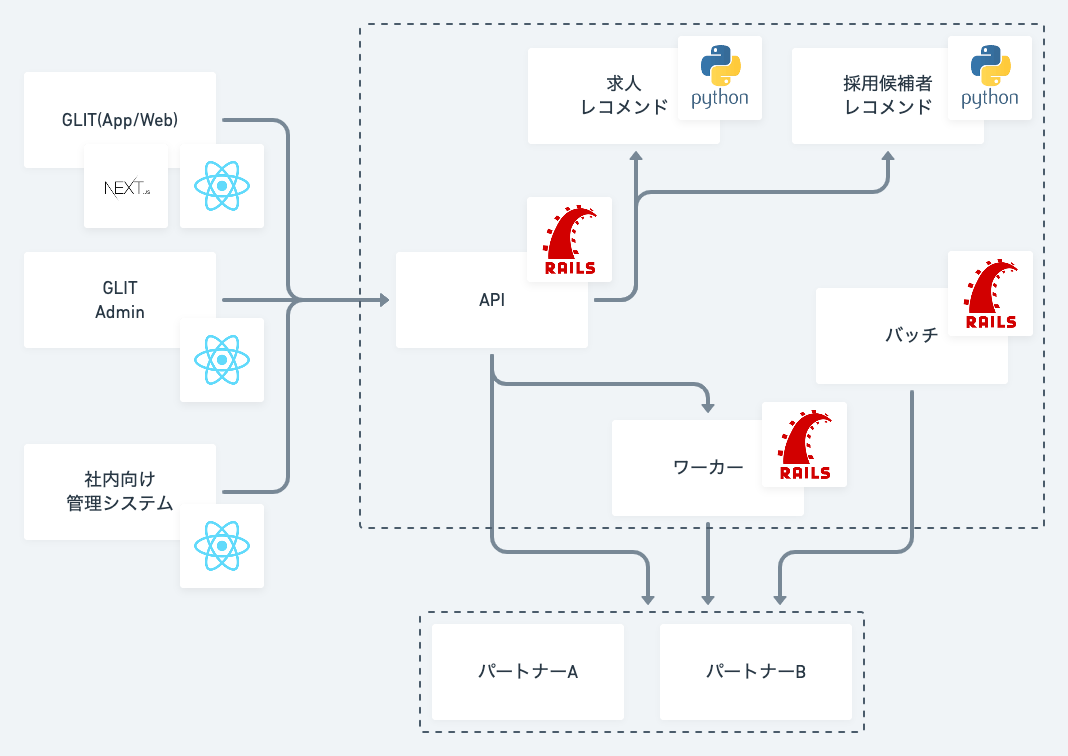
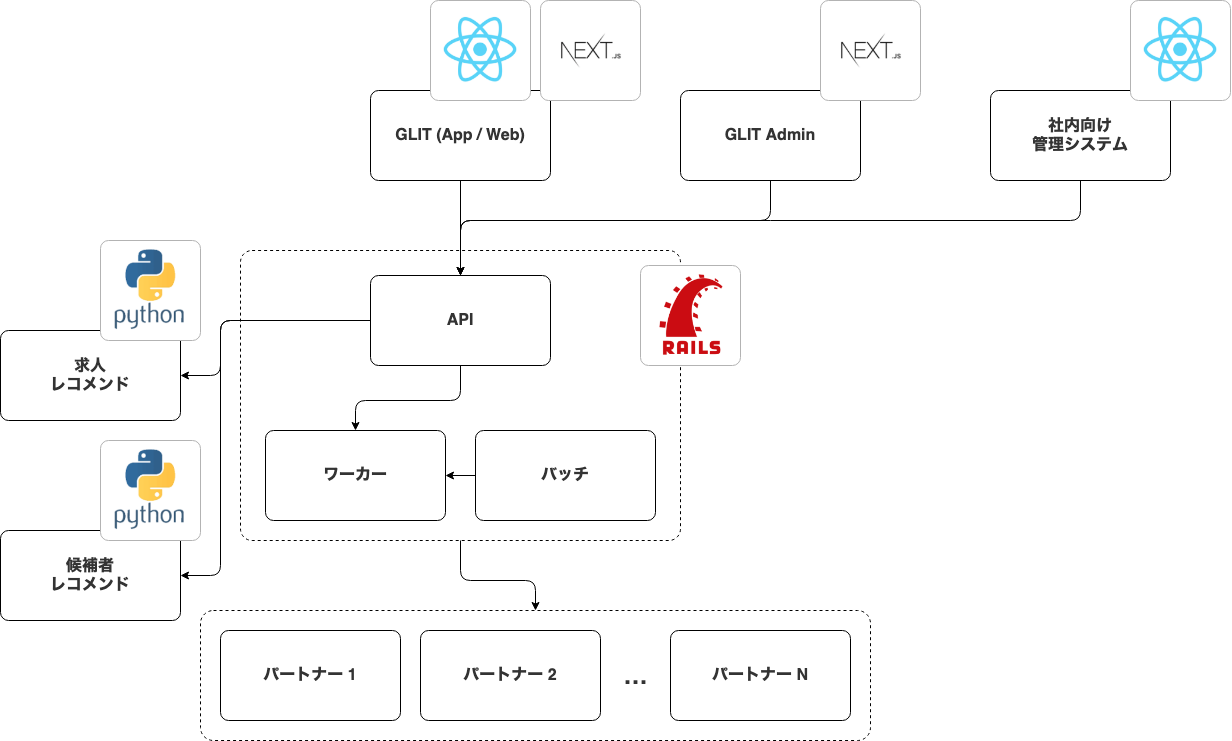
modify

diff --git a/hiring-deck.md b/hiring-deck.md
@@ -1,8 +1,6 @@
 ---
 marp: true
 theme: gaia
-header: 株式会社Carat 会社紹介資料 エンジニア向け
-footer: "更新日 2021年6月18日"
 paginate: true
 backgroundColor: white
 color: '#333333'
@@ -10,10 +8,10 @@ color: '#333333'
 
 <style>
 * {
-  font-family: "Hiragino Kaku Gothic ProN";
+  /* font-family: "Hiragino Kaku Gothic ProN"; */
   /* font-family: "Hiragino Maru Gothic ProN"; */
-  /* font-family: YuGothic; */
-  letter-spacing: -0.02em;
+  font-family: YuGothic;
+  letter-spacing: -0.01em;
 }
 </style>
 
@@ -27,9 +25,17 @@ p {
 }
 </style>
 
-## 株式会社Carat 会社紹介資料
+## 株式会社Carat会社紹介資料
 
-エンジニア向け
+for Engineers
+
+<span class="note">2021.06 updated</span>
+
+<style scoped>
+span.note {
+  color: gray;
+}
+</style>
 
 <!--
 Also supports multiline.
@@ -38,45 +44,24 @@ We bet these comments would help your presentation...
 
 ---
 
-### 目次
+### Company
 
-1. 会社概要
-1. CTO紹介
-1. 提供しているサービス
-1. 技術スタックと開発ツール
-1. アーキテクチャ
-1. チーム
-1. 開発フロー
-1. 課題
-1. 価値観
-1. セールスポイント
-
-<style scoped>
-li {
-  font-size: 30px;
-}
-</style>
+- 2016年12月にCEO松本・CTO斎藤によって創業
+- 正社員は4名、業務委託の方を入れると12名
+  - うち、エンジニア・デザイナーはCTO含めて5名
+- 本社は東京都渋谷区代々木にありますが、全員リモート勤務
+- 詳しくはこちら↓<br>https://www.notion.so/Carat-3fdf975a11c24bc98e5a0274c0c05b31
 
 ---
 
-### 会社概要
+### About CTO
 
-* 2016年12月にCEO松本・CTO斎藤によって創業
-* 正社員は4名、業務委託の方を入れると12名
-  * うち、エンジニア・デザイナーはCTO含めて5名
-* 本社は東京都渋谷区代々木にありますが、全員リモート勤務
-* 詳しくはこちら → https://www.notion.so/Carat-3fdf975a11c24bc98e5a0274c0c05b31
-
----
-
-### CTO紹介
-
-* 斎藤陽介( @saitoxu )
-* 1989年生まれ東京在住
-* 2014年京都大学大学院修了
-* 新卒で株式会社SHIFTに入社し、<br>業務用Webアプリケーションの開発に従事
-* 2016年12月にCEO松本と株式会社Caratを共同創業
-* 2021年4月に京都大学大学院情報学研究科博士課程に入学
+- 斎藤陽介( @saitoxu )
+- 1989年生まれ東京在住
+- 2014年京都大学大学院修了
+- 新卒で株式会社SHIFTに入社し、<br>業務用Webアプリケーションの開発に従事
+- 2016年12月にCEO松本と株式会社Caratを共同創業
+- 2021年4月に京都大学大学院情報学研究科博士課程に入学
 
 <img src="images/profile.jpg" class="profile" />
 
@@ -92,12 +77,55 @@ img.profile {
 
 ---
 
-### 提供しているサービス
+### Services
 
-* GLIT(グリット) https://glit.io
-* 20以上の求人サイトの求人情報を<br>掲載した転職サービス
-* 求人情報のアグリゲーション<br>→ レコメンデーションが特徴
-* iOS/Android/Webの<br>3プラットフォームで展開
+<img src="images/glit.webp" class="glit" />
+<img src="images/glit_admin.webp" class="glit_admin" />
+
+<span class="glit_caption">レコメンド型転職サービスGLIT(グリット)</span>
+<span class="glit_admin_caption">AIを活用した<br>企業向け採用ソリューションGLIT Admin</span>
+
+<style scoped>
+img.glit {
+  width: 500px;
+  position: absolute;
+  top: 200px;
+  left: 100px;
+}
+img.glit_admin {
+  width: 500px;
+  position: absolute;
+  top: 200px;
+  right: 100px;
+}
+span.glit_caption {
+  position: fixed;
+  width: 500px;
+  top: 480px;
+  font-weight: bold;
+  left: 100px;
+}
+span.glit_admin_caption {
+  position: fixed;
+  width: 500px;
+  top: 480px;
+  font-weight: bold;
+  right: 100px;
+}
+</style>
+
+---
+
+### GLIT
+
+<div style="width: 540px">
+
+- https://glit.io
+- 20以上の求人サイトの求人情報を掲載した転職サービス
+- 求人情報のアグリゲーションとレコメンデーションが特徴
+- iOS/Android/Webの3プラットフォームで展開
+
+</div>
 
 <img src="images/glit1.jpg" class="glit1" />
 <img src="images/glit2.jpg" class="glit2" />
@@ -119,93 +147,114 @@ img.glit2 {
 
 ---
 
-### 提供しているサービス
+### GLIT Admin
 
-* MAUは堅調に伸長中
+<div style="width: 540px">
 
-<img src="images/mau.png" class="mau" />
+- https://lp.glit.io/enterprise
+- 機械学習を活用した採用候補者のレコメンデーションが特徴
+- 2021年5月に大幅リニューアル
 
-<style scoped>
-img.mau {
-  position: absolute;
-  width: 1060px;
-  bottom: 50px;
-  right: 110px;
-}
-</style>
+</div>
 
----
-
-### 提供しているサービス
-
-* GLIT Admin https://glit.io/enterprise
-* 企業/エージェント向けの採用サービス
-* 採用候補者のレコメンデーション<br>が特徴
-
-<img src="images/admin.png" class="admin" />
+<img src="images/admin.webp" class="admin" />
 
 <style scoped>
 img.admin {
+  width: 500px;
   position: absolute;
-  bottom: 80px;
-  right: 60px;
+  bottom: 100px;
+  right: 80px;
 }
 </style>
 
 ---
 
-### 技術スタックと開発ツール
+### Tech Stack & Tools
 
-* GLIT
-  * iOS/Android: React Native(TypeScript約90%), Firebase
-  * Web: Next.js(TypeScript 100%)
-* GLIT Admin
-  * Web: Next.js(TypeScript 100%)
-* API: Ruby on Rails
-* インフラ: AWS, GCP(BigQuery)
-
----
-
-### 技術スタックと開発ツール
-
-* ソースコード管理: GitHub
-* チケット管理: JIRA
-* ドキュメンテーション・仕様管理: Confluence
-* デザイン: Figma
-* コミュニケーション: Slack, Zoom
-* CI/CD: Bitrise, CircleCI
-* モニタリング: Datadog, Sentry
+- GLIT
+  - iOS/Android: React Native(TypeScript 90%), Firebase
+  - Web: Next.js(TypeScript 100%)
+- GLIT Admin
+  - Web: Next.js(TypeScript 100%)
+- API: Ruby on Rails
+- レコメンデーション: Python
+- インフラ: AWS, GCP(BigQuery)
 
 ---
 
-### アーキテクチャ
+### Tech Stack & Tools
+
+- ソースコード管理: GitHub
+- チケット管理: JIRA
+- ドキュメンテーション・仕様管理: Confluence
+- デザイン: Figma
+- コミュニケーション: Slack, Zoom
+- CI/CD: Bitrise, CircleCI
+- モニタリング: Datadog, Sentry
+
+---
+
+### Architecture
+
+<div style="width: 470px">
+
+- 現在は2つのサービスで1つのAPIを共用しています
+- レコメンド機能はPrivate APIとして提供しています
+
+</div>
 
 <img src="images/architecture.png" class="arch" />
 
 <style scoped>
 img.arch {
   position: absolute;
-  width: 780px;
-  bottom: 20px;
-  left: 240px
+  width: 700px;
+  top: 180px;
+  right: 40px
 }
 </style>
 
 ---
 
-### チーム
+### Next Architecture
 
-* 主にプロダクト開発に関わっているのはCEO, CTO, PdM(COO), エンジニア2名(業務委託)
-* エンジニアの方は1人はデザイナー兼フロントエンドエンジニア、もう1人はフロントエンド専任
-* 現在はフロントエンドは業務委託の方々に、CTOがバックエンドなどその他全般を担当しています
+<div style="width: 370px">
+
+- サービス毎に独立して開発を進められるよう、現在APIのリファクタリングを進めています
+
+</div>
+
+<img src="images/next_architecture.png" class="arch" />
+
+<style scoped>
+img.arch {
+  position: absolute;
+  width: 800px;
+  top: 180px;
+  right: 40px
+}
+</style>
 
 ---
 
-### 開発フロー
+### Team
 
-* 週次のプロダクトミーティングでアサインなどを決めます(現在は毎週金曜)
-* コードレビューはCTOが担当しています
-* ソフトウェアテスト会社出身が多いのでQAは比較的厚めです
+- TODO
+
+---
+
+### Future Team
+
+- TODO
+
+---
+
+### Development Flow
+
+- 週次のプロダクトミーティングでアサインなどを決めます
+- コードレビューはCTO + 同じ職種のエンジニアが実施
+- ソフトウェアテスト会社出身が多いのでQAは比較的厚めです
 
 <img src="images/flow.png" class="flow" />
 
@@ -220,30 +269,7 @@ img.flow {
 
 ---
 
-### 課題
-
-* 2021年4月でGLITはサービスインして5年目に入るため、少しずつ負債も目立つようになってきました
-* 特にAPIはモノリシックなRuby on Railsアプリケーションとして開発されているため、何かしら方針を立てリファクタリングを進め、次の5年に耐えうるようなアーキテクチャにしたいと考えています
-
----
-
-### 価値観
-
-<span class="bold">1. 最小人数で最大限の価値を</span><br>ソフトウェアアーキテクチャの目的は求められるシステムを構築・保守するために必要な人材を最小限に抑えることである - Clean Architecture
-
-<span class="bold">2. 職人のこだわりと現実のバランス</span><br>QCDを守りつつも、1ピクセルのこだわりやメソッド・変数の命名などをないがしろにせずにしたいと思っています。
-
-<style scoped>
-span.bold {
-  font-weight: bold;
-  font-size: 1.1rem;
-  line-height: 2rem;
-}
-</style>
-
----
-
-### セールスポイント
+### Selling Points
 
 <span class="bold">1. 大きな裁量権</span><br>まだ小さなチームのため、大きな裁量権を持ってサービス開発に携わることができます。
 
